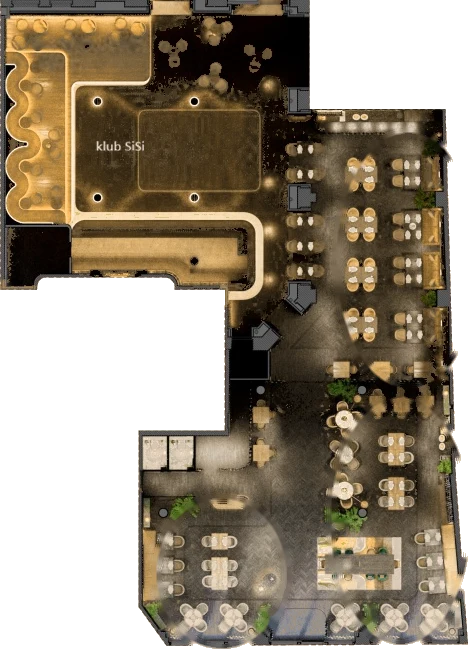
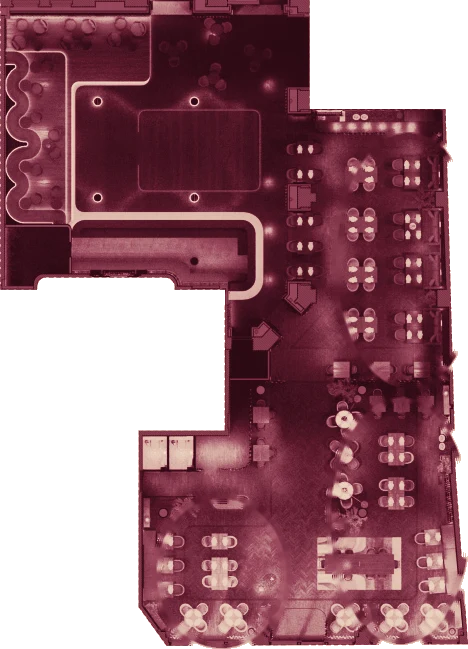
Make the floor plan a burgundy duotone with clickable venues
Redraw the plan as a burgundy-to-cream duotone (luminance ramp from the
site's wine background to the brand cream), inpaint out the "klub SiSi"
label, and lay an SVG overlay over the image with one region per venue.
Clicking or pressing Enter on SiSi or The Cork selects the matching
space radio; the radios light the regions in return, and "cały R32"
lights both. A short hint above the caption says the plan is clickable.

Claude-Session: https://claude.ai/code/session_01LKKbJkG2wgGqrQxy1tbTos

diff --git a/src/scripts/configurator.ts b/src/scripts/configurator.ts
@@ -119,9 +119,16 @@ function initConfigurator(form: HTMLFormElement): void {
       }
     }
 
-    // Space "Selected:" line
+    // Space "Selected:" line + the clickable plan (r32 lights both venues)
     const space = checkedRadio('space');
     if (spaceSelected && space) spaceSelected.textContent = space.getAttribute('data-label') || '';
+    const spaceKey = space?.getAttribute('data-key') || '';
+    mapRegions.forEach((region) => {
+      const key = region.getAttribute('data-map-space') || '';
+      const on = spaceKey === key || spaceKey === 'r32';
+      region.classList.toggle('is-selected', on);
+      region.setAttribute('aria-pressed', on ? 'true' : 'false');
+    });
 
     // Summary card
     const label = (input: HTMLInputElement | null) => input?.getAttribute('data-label') || strings.summary.toBeAgreed;
@@ -159,6 +166,23 @@ function initConfigurator(form: HTMLFormElement): void {
         : '';
     }
   }
+
+  /* --- clickable plan: each venue region selects its radio --------------- */
+  const mapRegions = qa<SVGGElement>('[data-map-space]');
+  mapRegions.forEach((region) => {
+    const choose = () => {
+      const radio = q<HTMLInputElement>(`input[name="space"][data-key="${region.getAttribute('data-map-space')}"]`);
+      if (!radio || radio.checked) return;
+      radio.checked = true;
+      radio.dispatchEvent(new Event('change', { bubbles: true }));
+    };
+    region.addEventListener('click', choose);
+    region.addEventListener('keydown', (event) => {
+      if (event.key !== 'Enter' && event.key !== ' ') return;
+      event.preventDefault();
+      choose();
+    });
+  });
 
   form.addEventListener('input', update);
   form.addEventListener('change', update);

diff --git a/src/i18n/ui/pl.ts b/src/i18n/ui/pl.ts
@@ -468,6 +468,7 @@ const pl = {
       intro: 'Zaznacz preferowaną przestrzeń. Ostateczny układ i dostępność potwierdzi nasz zespół.',
       planAlt: 'Plan funkcjonalny kompleksu R32: klub SiSi i restauracja The Cork',
       planCaption: 'Układ funkcjonalny R32 - klub SiSi i restauracja The Cork przy Rzeźniczej 32-33',
+      planHint: 'Kliknij SiSi lub The Cork na planie, aby wybrać przestrzeń.',
       selected: 'Wybrano:',
       options: {
         sisi: { title: 'Klub SiSi', body: 'Klub muzyczny z barem, DJ-ami i muzyką na żywo - na wieczorne przyjęcia i imprezy.' },

diff --git a/src/i18n/ui/it.ts b/src/i18n/ui/it.ts
@@ -455,6 +455,7 @@ const it: UI = {
       intro: 'Indica lo spazio che preferisci. La disposizione finale e la disponibilità saranno confermate dal nostro team.',
       planAlt: 'Planimetria del complesso R32: club SiSi e ristorante The Cork',
       planCaption: 'Planimetria R32 - club SiSi e ristorante The Cork, Rzeźnicza 32-33',
+      planHint: 'Clicca su SiSi o The Cork nella planimetria per scegliere lo spazio.',
       selected: 'Selezionato:',
       options: {
         sisi: { title: 'Club SiSi', body: 'Music club con bar, DJ e musica dal vivo - per feste e serate.' },

diff --git a/src/i18n/ui/de.ts b/src/i18n/ui/de.ts
@@ -456,6 +456,7 @@ const de: UI = {
       intro: 'Markiere deinen bevorzugten Raum. Die endgültige Aufteilung und Verfügbarkeit bestätigt unser Team.',
       planAlt: 'Grundriss des R32-Komplexes: Club SiSi und Restaurant The Cork',
       planCaption: 'Grundriss R32 - Club SiSi und Restaurant The Cork, Rzeźnicza 32-33',
+      planHint: 'Klicke im Plan auf SiSi oder The Cork, um einen Raum zu wählen.',
       selected: 'Ausgewählt:',
       options: {
         sisi: { title: 'Club SiSi', body: 'Musikclub mit Bar, DJs und Live-Musik - für Abendfeiern und Partys.' },

diff --git a/src/i18n/ui/en.ts b/src/i18n/ui/en.ts
@@ -456,6 +456,7 @@ const en: UI = {
       intro: 'Mark your preferred space. Our team will confirm the final layout and availability.',
       planAlt: 'Floor plan of the R32 complex: SiSi club and The Cork restaurant',
       planCaption: 'R32 floor plan - SiSi club and The Cork restaurant at Rzeźnicza 32-33',
+      planHint: 'Click SiSi or The Cork on the plan to choose a space.',
       selected: 'Selected:',
       options: {
         sisi: { title: 'SiSi club', body: 'A music club with a bar, DJs and live music - for evening parties and celebrations.' },

diff --git a/src/i18n/ui/cs.ts b/src/i18n/ui/cs.ts
@@ -456,6 +456,7 @@ const cs: UI = {
       intro: 'Označte preferovaný prostor. Konečné rozvržení a dostupnost potvrdí náš tým.',
       planAlt: 'Půdorys komplexu R32: klub SiSi a restaurace The Cork',
       planCaption: 'Půdorys R32 - klub SiSi a restaurace The Cork, Rzeźnicza 32-33',
+      planHint: 'Kliknutím na SiSi nebo The Cork v půdorysu vyberete prostor.',
       selected: 'Vybráno:',
       options: {
         sisi: { title: 'Klub SiSi', body: 'Hudební klub s barem, DJ a živou hudbou - na večerní oslavy a párty.' },
